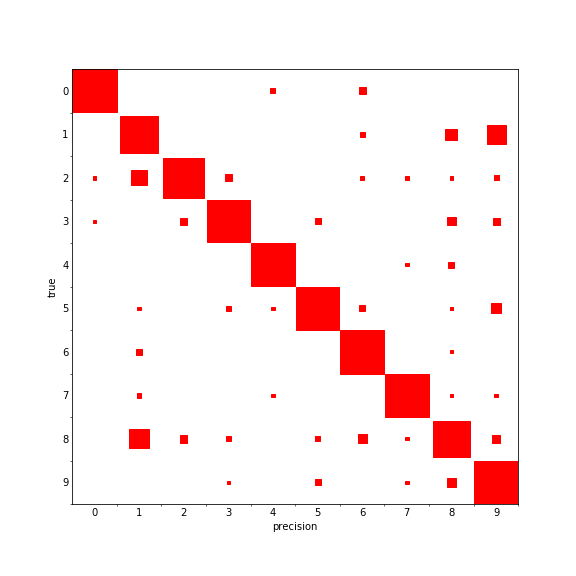
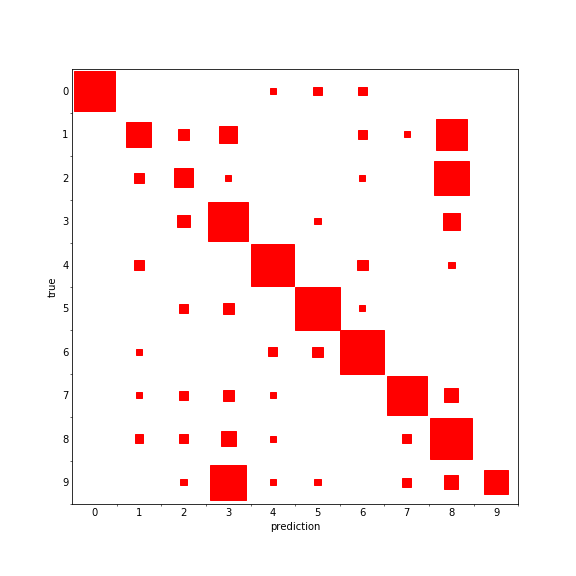
add option for circles in confusion matrix, correct precision->prediction and other wording fixes

diff --git a/tools.py b/tools.py
@@ -131,6 +131,7 @@ def plot_confusion_matrix(ax,
                           grid=False,
                           area=True,
                           transpose=True,
+                          shape='square',
                           normalization="maximum"):
     """
     Parameters
@@ -149,6 +150,8 @@ def plot_confusion_matrix(ax,
     area : bool, default: True
         if True, the area of the square is proportional to the value.
         If False, the length of a side is used.
+    shape : 'square' or 'circle'
+        the shape of the object in the grid
     transpose : bool, default: True
         transpose from sklearn standard. if True, show the actual values
         along the vertical axis and predictions along horizontal
@@ -190,7 +193,7 @@ def plot_confusion_matrix(ax,
     ax.invert_yaxis()
     ax.grid(grid, which='minor')
 
-    labels = ['true', 'precision']
+    labels = ['true', 'prediction']
     if transpose:
         labels.reverse()
     ax.set_xlabel(labels[0])
@@ -202,8 +205,11 @@ def plot_confusion_matrix(ax,
     for i in range(n):
         for j in range(n):
             size = cm[i, j]
-            square = matplotlib.patches.Rectangle((i - size/2, j - size/2),
-                                                  size, size, color=color)
+            if shape == 'square':
+                square = matplotlib.patches.Rectangle((i - size/2, j - size/2),
+                                                      size, size, color=color)
+            elif shape == 'circle':
+                square = matplotlib.patches.Circle((i, j), size/2, color=color)
             ax.add_patch(square)
             if counts:
                 ax.text(i, j, str(int(cnts[i, j])),
